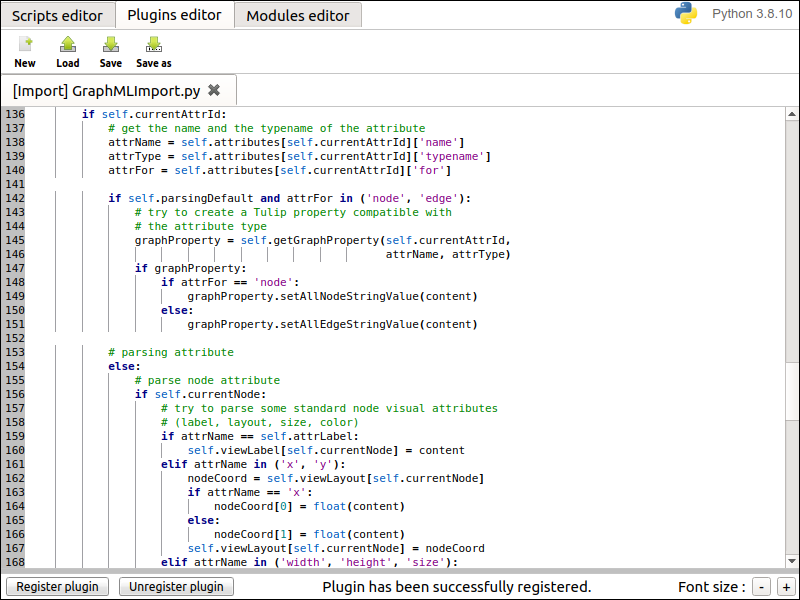
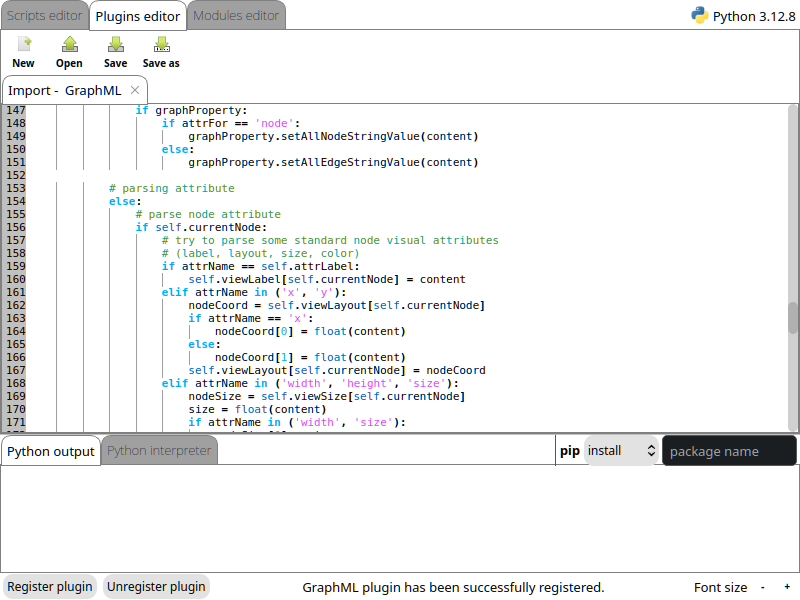
Partially fixed Python IDe for plugins. Plugin can now be loaded but register/unregister is not working at least for import plugins

Changed region(s): [[0.0, 0.0, 1.0, 1.0], [0.8438, 0.0, 1.0, 0.06]]

diff --git a/library/tulip-python/src/PythonIDE.cpp b/library/tulip-python/src/PythonIDE.cpp
@@ -899,10 +899,11 @@ static bool checkAndGetPluginInfoFromSrcCode(const QString &pluginCode, QString 
       pos = pluginCode.indexOf(rx, pos + match.capturedLength(), &match);
     }
 
-    rx.setPattern(".*registerPlugin.*\\(\\s*['\"]([^\"']+)[\"']\\s*,\\s*['\"]([^\"']+)[\"'].*$");
+    rx.setPattern(".*registerPlugin.*\\(\\s*['\"][^\"']+[\"']\\s*,(\\s*['\"][^\"']+[\"'])");
     match = rx.match(pluginCode);
     if (match.hasMatch()) {
-      pluginName = match.captured(2);
+      pluginName = match.captured(1);
+      pluginName.remove(QRegularExpression("['\"]"));
       return true;
     }
   }
@@ -1062,22 +1063,11 @@ void PythonIDE::registerPythonPlugin(bool clear) {
     return;
 
   QString pluginFile = getPluginEditor(tabIdx)->getFileName();
+  QFileInfo fileInfo(pluginFile);
 
   savePythonPlugin();
 
-  QString moduleNameExt = _ui->pluginsTabWidget->tabText(tabIdx);
-  moduleNameExt = moduleNameExt.mid(moduleNameExt.lastIndexOf("]") + 2);
-  QString moduleName;
-
-  if (moduleNameExt[moduleNameExt.size() - 1] == '*')
-    moduleName = moduleNameExt.mid(0, moduleNameExt.size() - 4);
-  else
-    moduleName = moduleNameExt.mid(0, moduleNameExt.size() - 3);
-
-  moduleName = moduleName.replace(".py", "");
-
-  // workaround a Qt5 bug on linux
-  moduleName = moduleName.replace("&", "");
+  QString moduleName = fileInfo.completeBaseName();
 
   QString pluginCode = getPluginEditor(tabIdx)->getCleanCode();
 
@@ -1110,7 +1100,6 @@ void PythonIDE::registerPythonPlugin(bool clear) {
   _pythonInterpreter->runString("tulipplugins.setTestMode(True)");
 
   bool codeOk = false;
-  QFileInfo fileInfo(getPluginEditor(tabIdx)->getFileName());
 
   if (fileInfo.fileName() == getPluginEditor(tabIdx)->getFileName()) {
     codeOk = _pythonInterpreter->registerNewModuleFromString(
@@ -1136,12 +1125,12 @@ void PythonIDE::registerPythonPlugin(bool clear) {
       _pythonInterpreter->reloadModule(moduleName);
     }
 
-    _ui->pluginStatusLabel->setText("Plugin has been successfully registered.");
+    _ui->pluginStatusLabel->setText(pluginName+" plugin has been successfully registered.");
     _editedPluginsClassName[pluginFile] = pluginClassName;
     _editedPluginsType[pluginFile] = pluginType;
     _editedPluginsName[pluginFile] = pluginName;
   } else {
-    _ui->pluginStatusLabel->setText("Plugin registration has failed.");
+    _ui->pluginStatusLabel->setText(pluginName+" plugin registration has failed.");
     indicateErrors();
   }
 
@@ -1155,13 +1144,14 @@ void PythonIDE::removePythonPlugin() {
   if (tabIdx == -1)
     return;
 
-  QString pluginName = _editedPluginsName[getCurrentPluginEditor()->getFileName()];
+  QString qpluginName=_editedPluginsName[getCurrentPluginEditor()->getFileName()];
+  std::string pluginName = QStringToTlpString(qpluginName);
 
-  if (tlp::PluginLister::pluginExists(QStringToTlpString(pluginName))) {
-    tlp::PluginLister::removePlugin(QStringToTlpString(pluginName));
-    _ui->pluginStatusLabel->setText("Plugin has been successfully unregistered.");
+  if (tlp::PluginLister::pluginExists(pluginName)) {
+    tlp::PluginLister::removePlugin(pluginName);
+    _ui->pluginStatusLabel->setText(qpluginName+" plugin has been successfully unregistered.");
   } else {
-    _ui->pluginStatusLabel->setText("Plugin is not registered in the plugins list");
+    _ui->pluginStatusLabel->setText(qpluginName +" plugin is not registered.");
   }
 }
 

diff --git a/doc/python/gettingstarted.rst b/doc/python/gettingstarted.rst
@@ -73,14 +73,15 @@ After choosing the command, click in the *package name* input field, type the na
 
 - A **Plugins editor** (see :ref:`Figure 3<fig3>`): it enables to develop Tulip plugins in pure Python
   (see :ref:`Writing Tulip plugins in Python <tulippythonplugins>`).
-  These plugins are then immediately integrated in the Tulip GUI when requesting their registration
-  (if their source code is valid of course). Different kinds of plugins can be developed : General Algorithms,
-  Property Algorithms, Import plugins and Export plugins. When executing these plugins, standard and error output
+  These plugins are immediately integrated in the Tulip GUI when requesting their registration
+  (if their source code is valid of course). Different kinds of plugins can be developed: General Algorithms,
+  Property Algorithms, Import plugins and Export plugins. When executing these plugins, standard and error outputs
   will be displayed in the "Message Log" panel of the Tulip GUI.
 
 .. _fig3:
 .. figure:: tulipPythonPlugin.png
   :align: center
+  :class: with-border
 
   Figure 3: Screenshot of the **Plugins editor** tab in the Python IDE.
 
